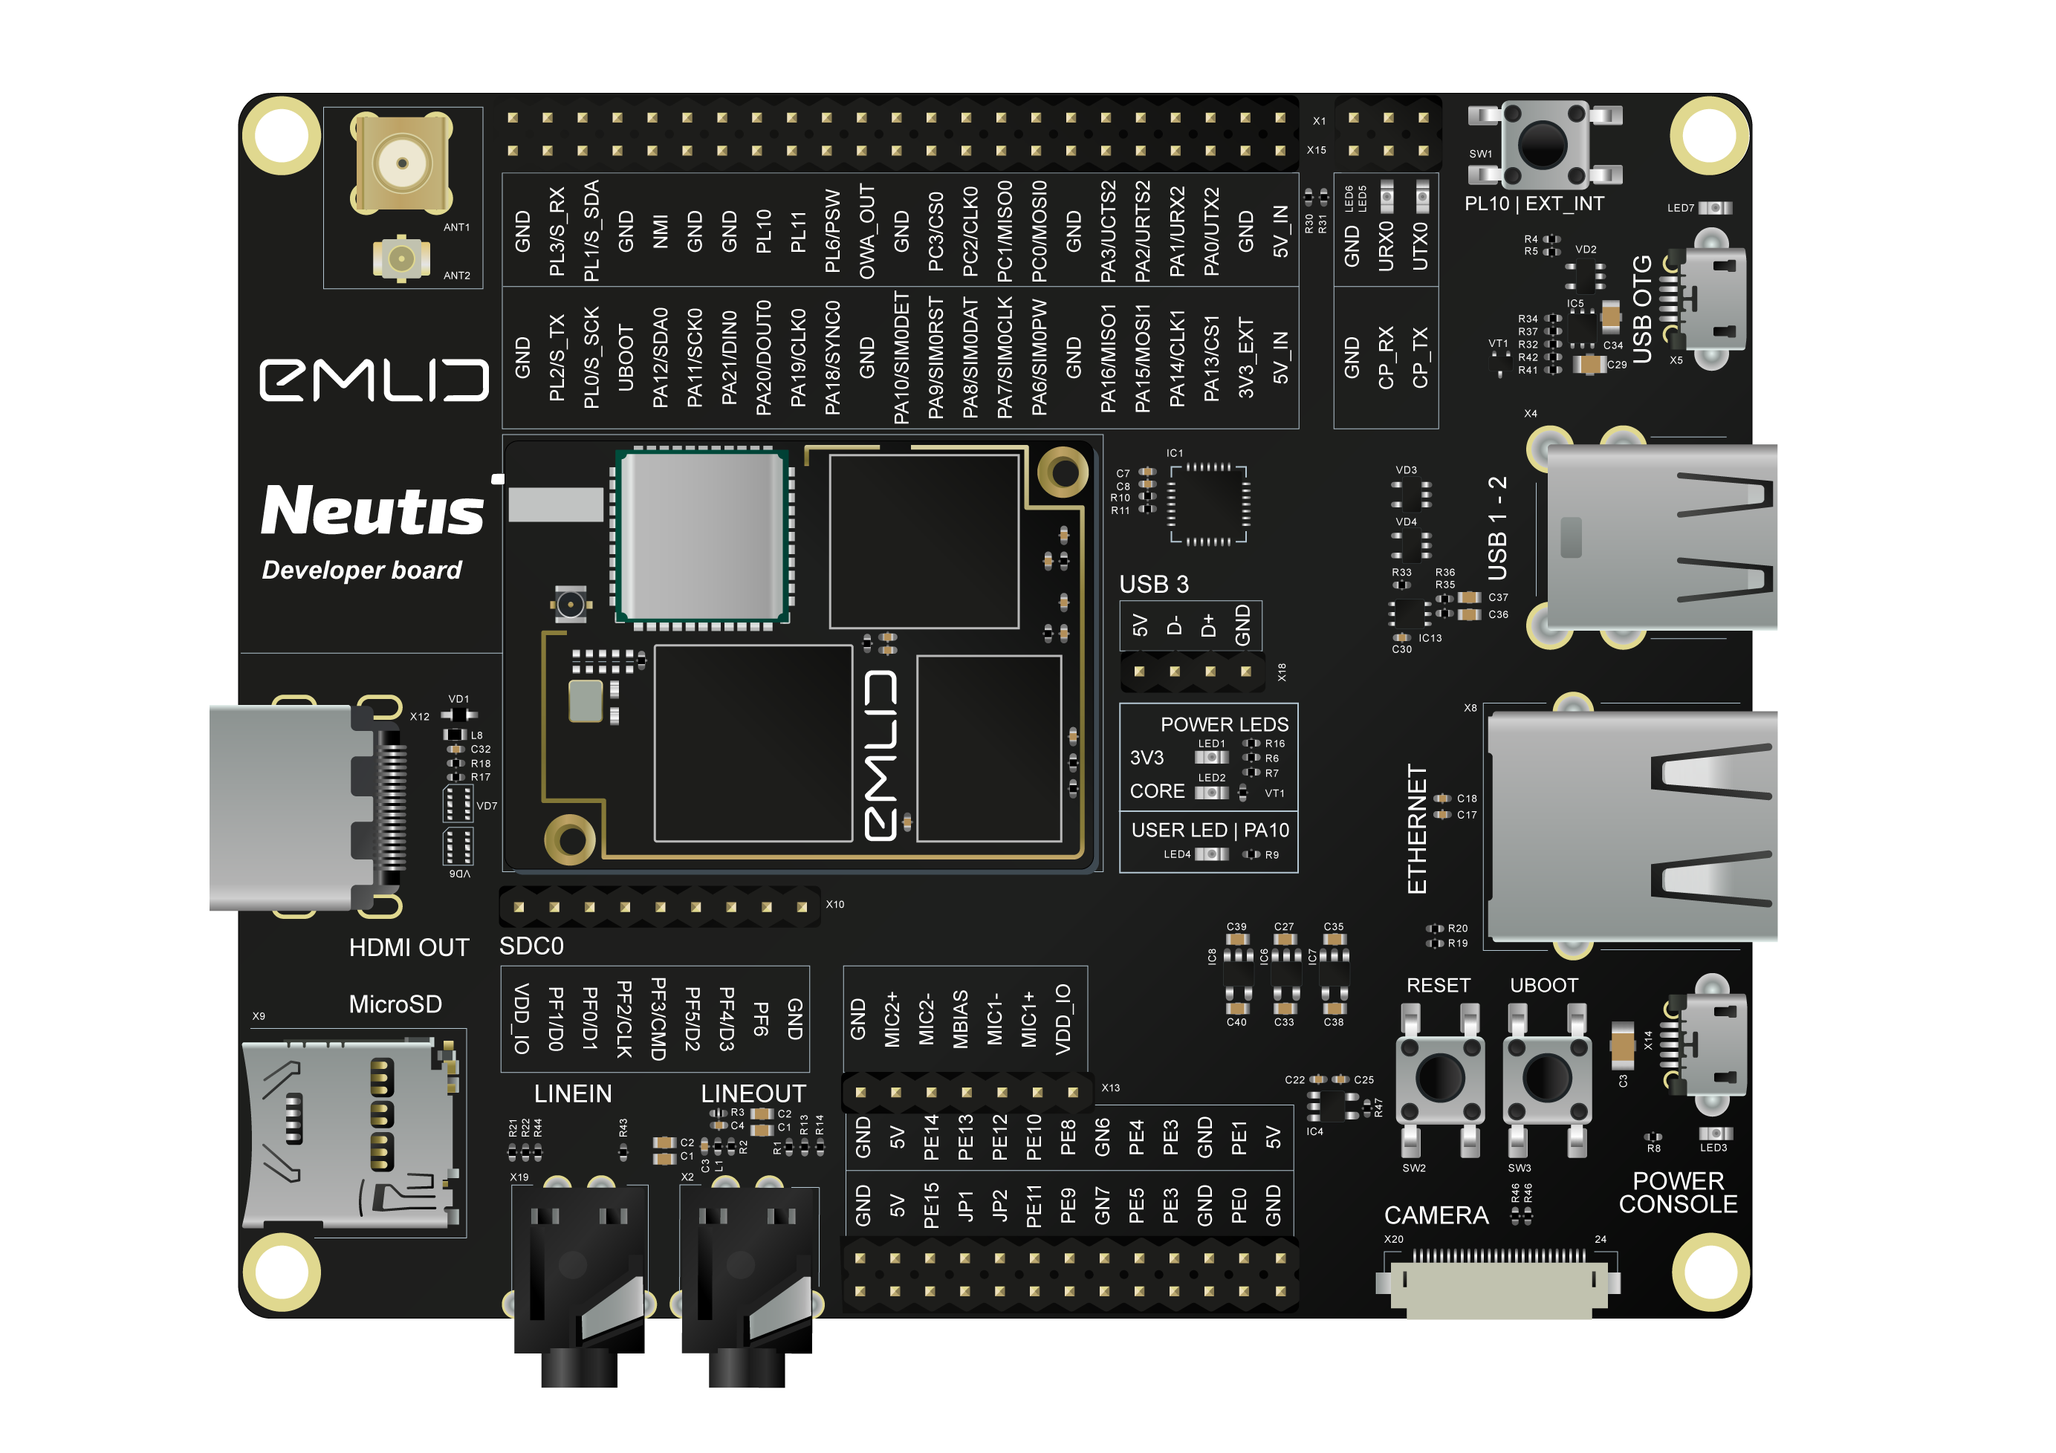
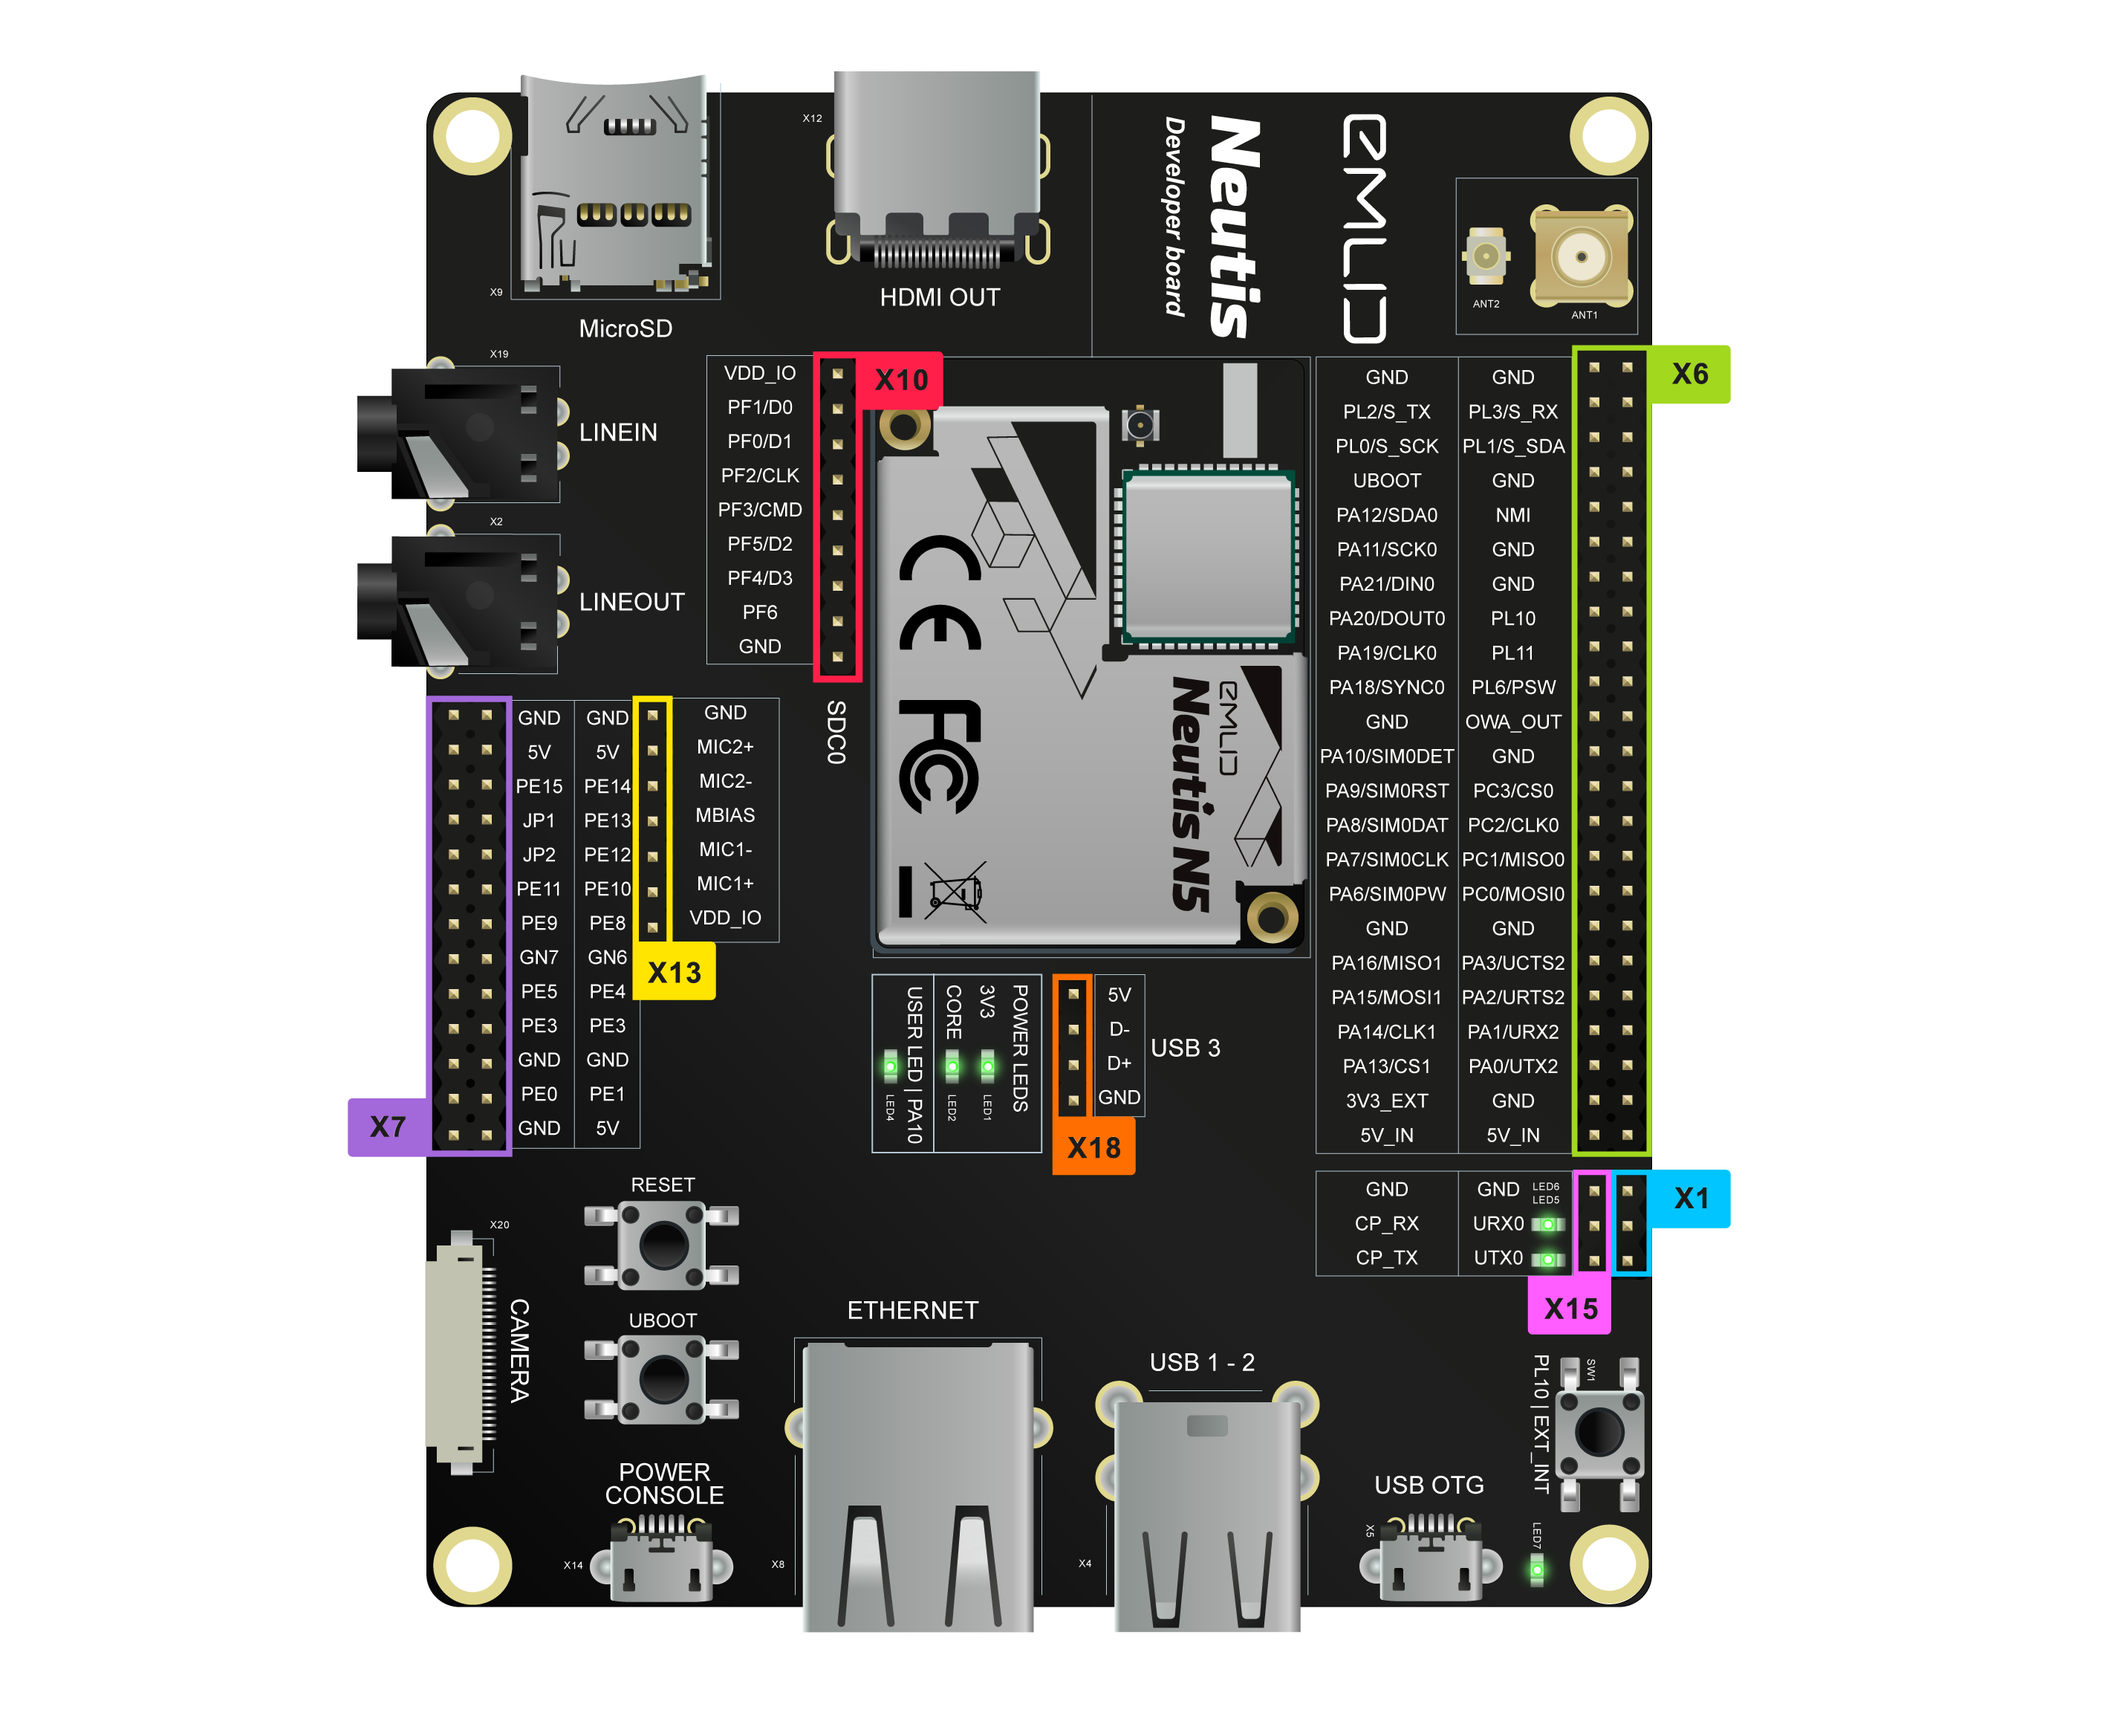
pinout: add new headers

diff --git a/docs/pinout/devboard.md b/docs/pinout/devboard.md
@@ -1,3 +1,13 @@
 ## Devboard Pinout
 
+### Entire board
 <a href="../../img/pinout/dev_board_pinout.png" target="_blank"> ![scheme](../../img/pinout/dev_board_pinout.png)</a>
+
+### Main header (X6)
+<a href="../../img/pinout/x6.png" target="_blank"> ![scheme](../../img/pinout/x6.png)</a>
+
+### Camera header (X7)
+<a href="../../img/pinout/x7.png" target="_blank"> ![scheme](../../img/pinout/x7.png)</a>
+
+### UART header (X1,X15)
+<a href="../../img/pinout/x1-x15.png" target="_blank"> ![scheme](../../img/pinout/x1-x15.png)</a>
